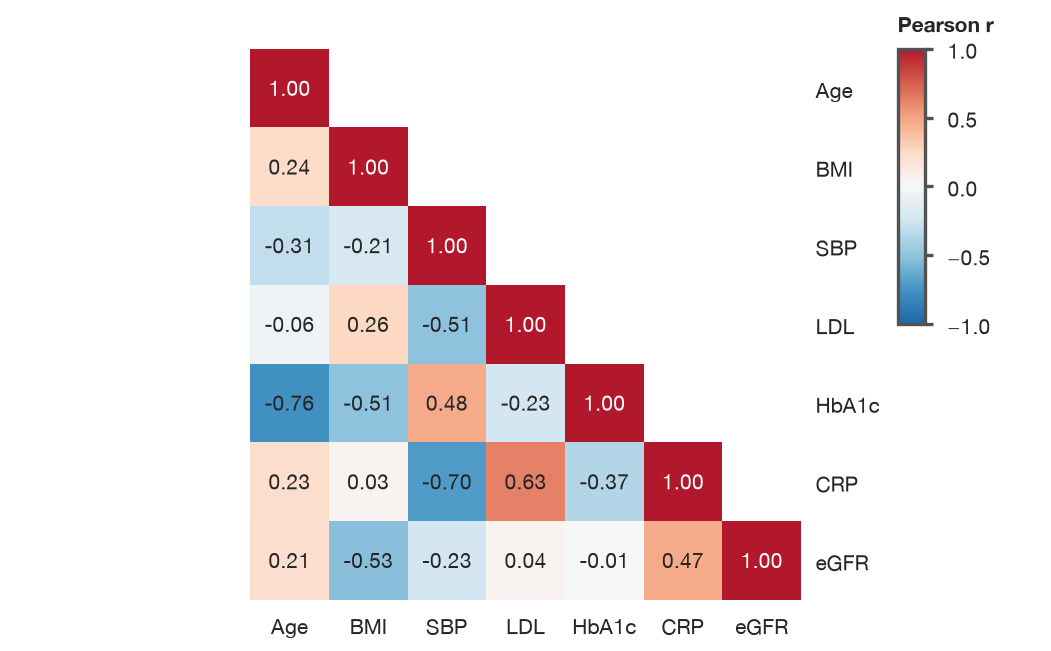
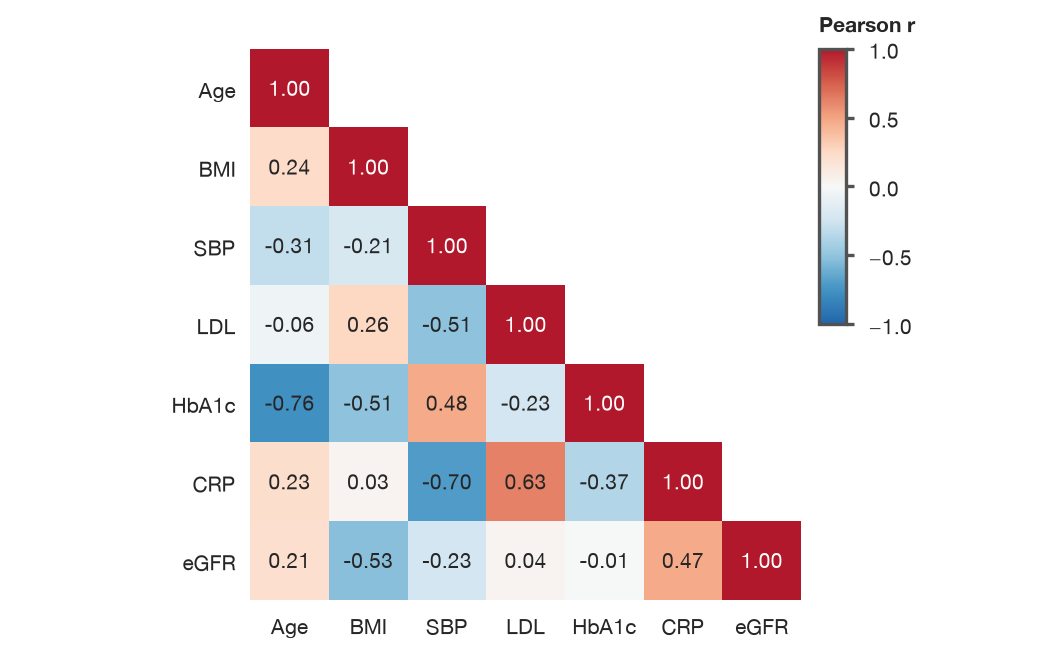
Updated Heatmapp Tick Locations

diff --git a/src/SecretPlots/plots/heatmap.py b/src/SecretPlots/plots/heatmap.py
@@ -1083,7 +1083,16 @@ class HeatmapPlot(Plot):
         for spine in ax.spines.values():
             spine.set_visible(False)
         ax.tick_params(length=0)
-        ax.yaxis.tick_right()
+        if (
+            isinstance(self._mask, str)
+            and self._mask == "upper"
+            and not self._left_side_used()
+        ):
+            # Only the lower triangle is drawn: on the right, the top rows'
+            # labels would hang past empty cells.
+            ax.yaxis.tick_left()
+        else:
+            ax.yaxis.tick_right()
         ax.yaxis.set_label_position("left")
 
         self._set_ticks(ax, style, rows.order, row_starts + 0.5, "row")

diff --git a/tests/test_heatmap.py b/tests/test_heatmap.py
@@ -219,6 +219,13 @@ def test_mask_triangle_and_nan_cells() -> None:
     assert len([c for c in missing.ax.collections if isinstance(c, QuadMesh)]) == 2
 
 
+def test_lower_triangle_puts_row_labels_left() -> None:
+    corr = pd.DataFrame(np.eye(3), index=list("abc"), columns=list("abc"))
+    assert sp.heatmap(corr).mask("upper").ax.yaxis.get_ticks_position() == "left"
+    assert sp.heatmap(corr).mask("lower").ax.yaxis.get_ticks_position() == "right"
+    assert sp.heatmap(corr).ax.yaxis.get_ticks_position() == "right"
+
+
 def test_mask_errors() -> None:
     with pytest.raises(sp.DataShapeError, match="square"):
         sp.heatmap([[1, 2, 3]]).mask("upper")

diff --git a/docs/gallery.md b/docs/gallery.md
@@ -196,9 +196,9 @@ track. Gene names are italic, as journals require.
 Hazard ratios for the primary end point of a cardiovascular trial, overall and
 in prespecified subgroups. Events per arm and the "HR (95% CI)" column sit in the
 table, the P for interaction on each section header, and the overall estimate
-is a diamond. Shaded rows guide the eye across the double-column width.
+is a diamond. Shaded rows guide the eye from each label to its estimate.
 
-![Subgroup forest plot with events per arm, hazard ratios and interaction p-values.](assets/figures/gallery-forest.png)
+![Subgroup forest plot with events per arm, hazard ratios and interaction p-values.](assets/figures/gallery-forest.png){ .narrow }
 
 ??? example "Show code"
 
@@ -234,7 +234,7 @@ is a diamond. Shaded rows guide the eye across the double-column width.
         .stripes()
         .colors("#0072B2")
         .labels(x="Hazard ratio")
-        .preset("nature", width="double")
+        .size(height="72mm")
     )
     ```
     <!-- figure: gallery-forest.png -->
